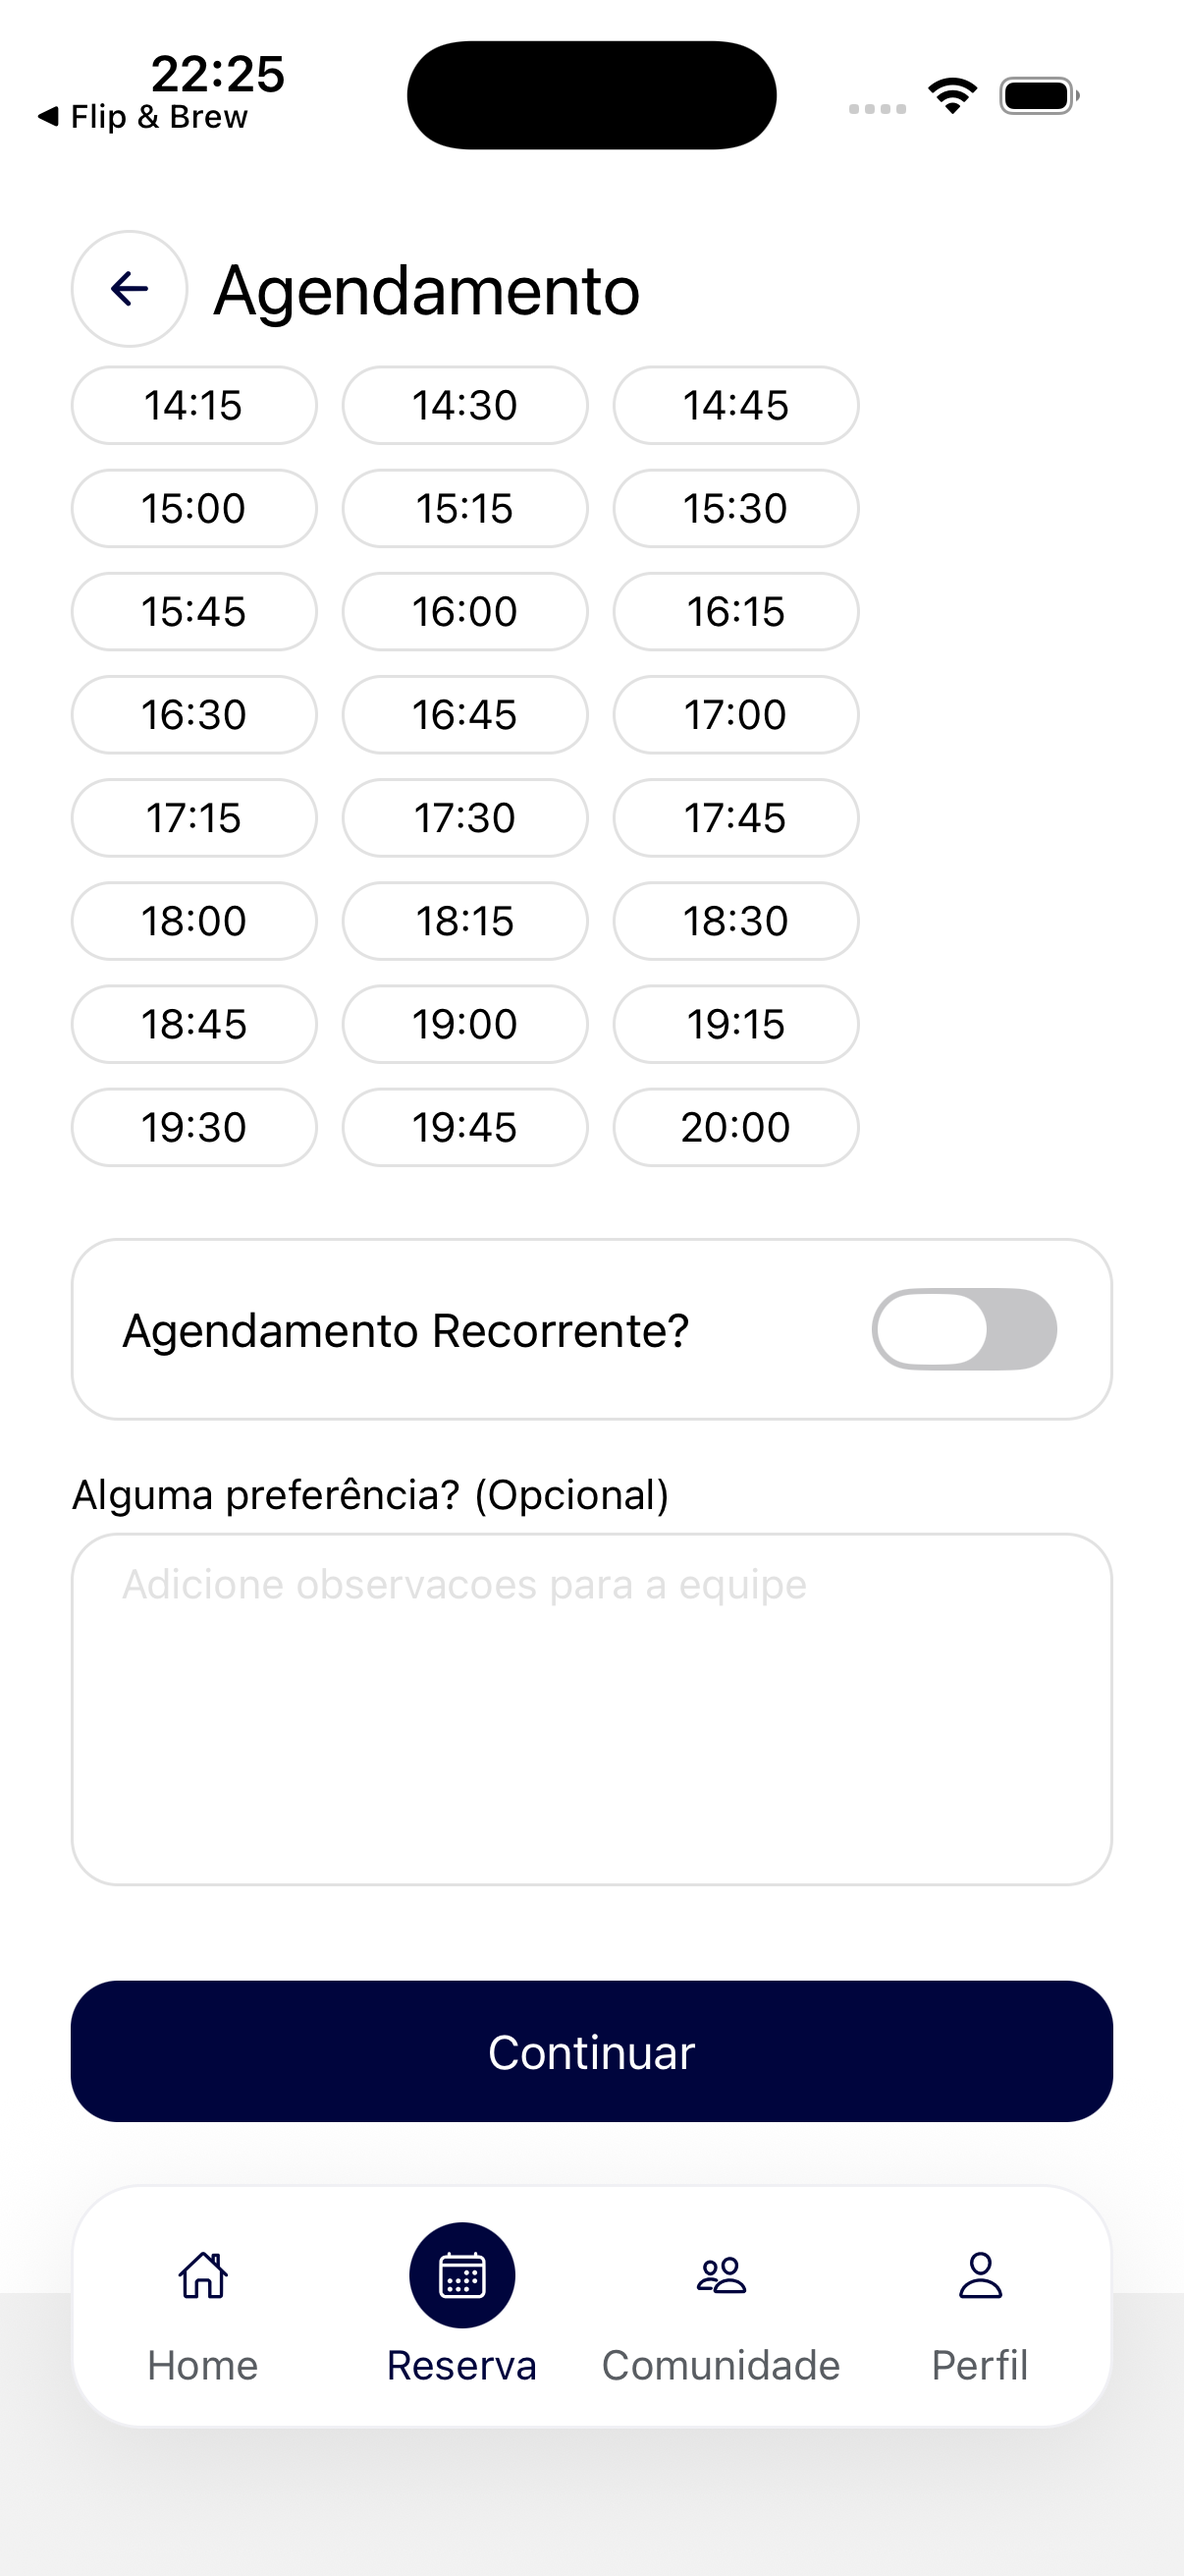
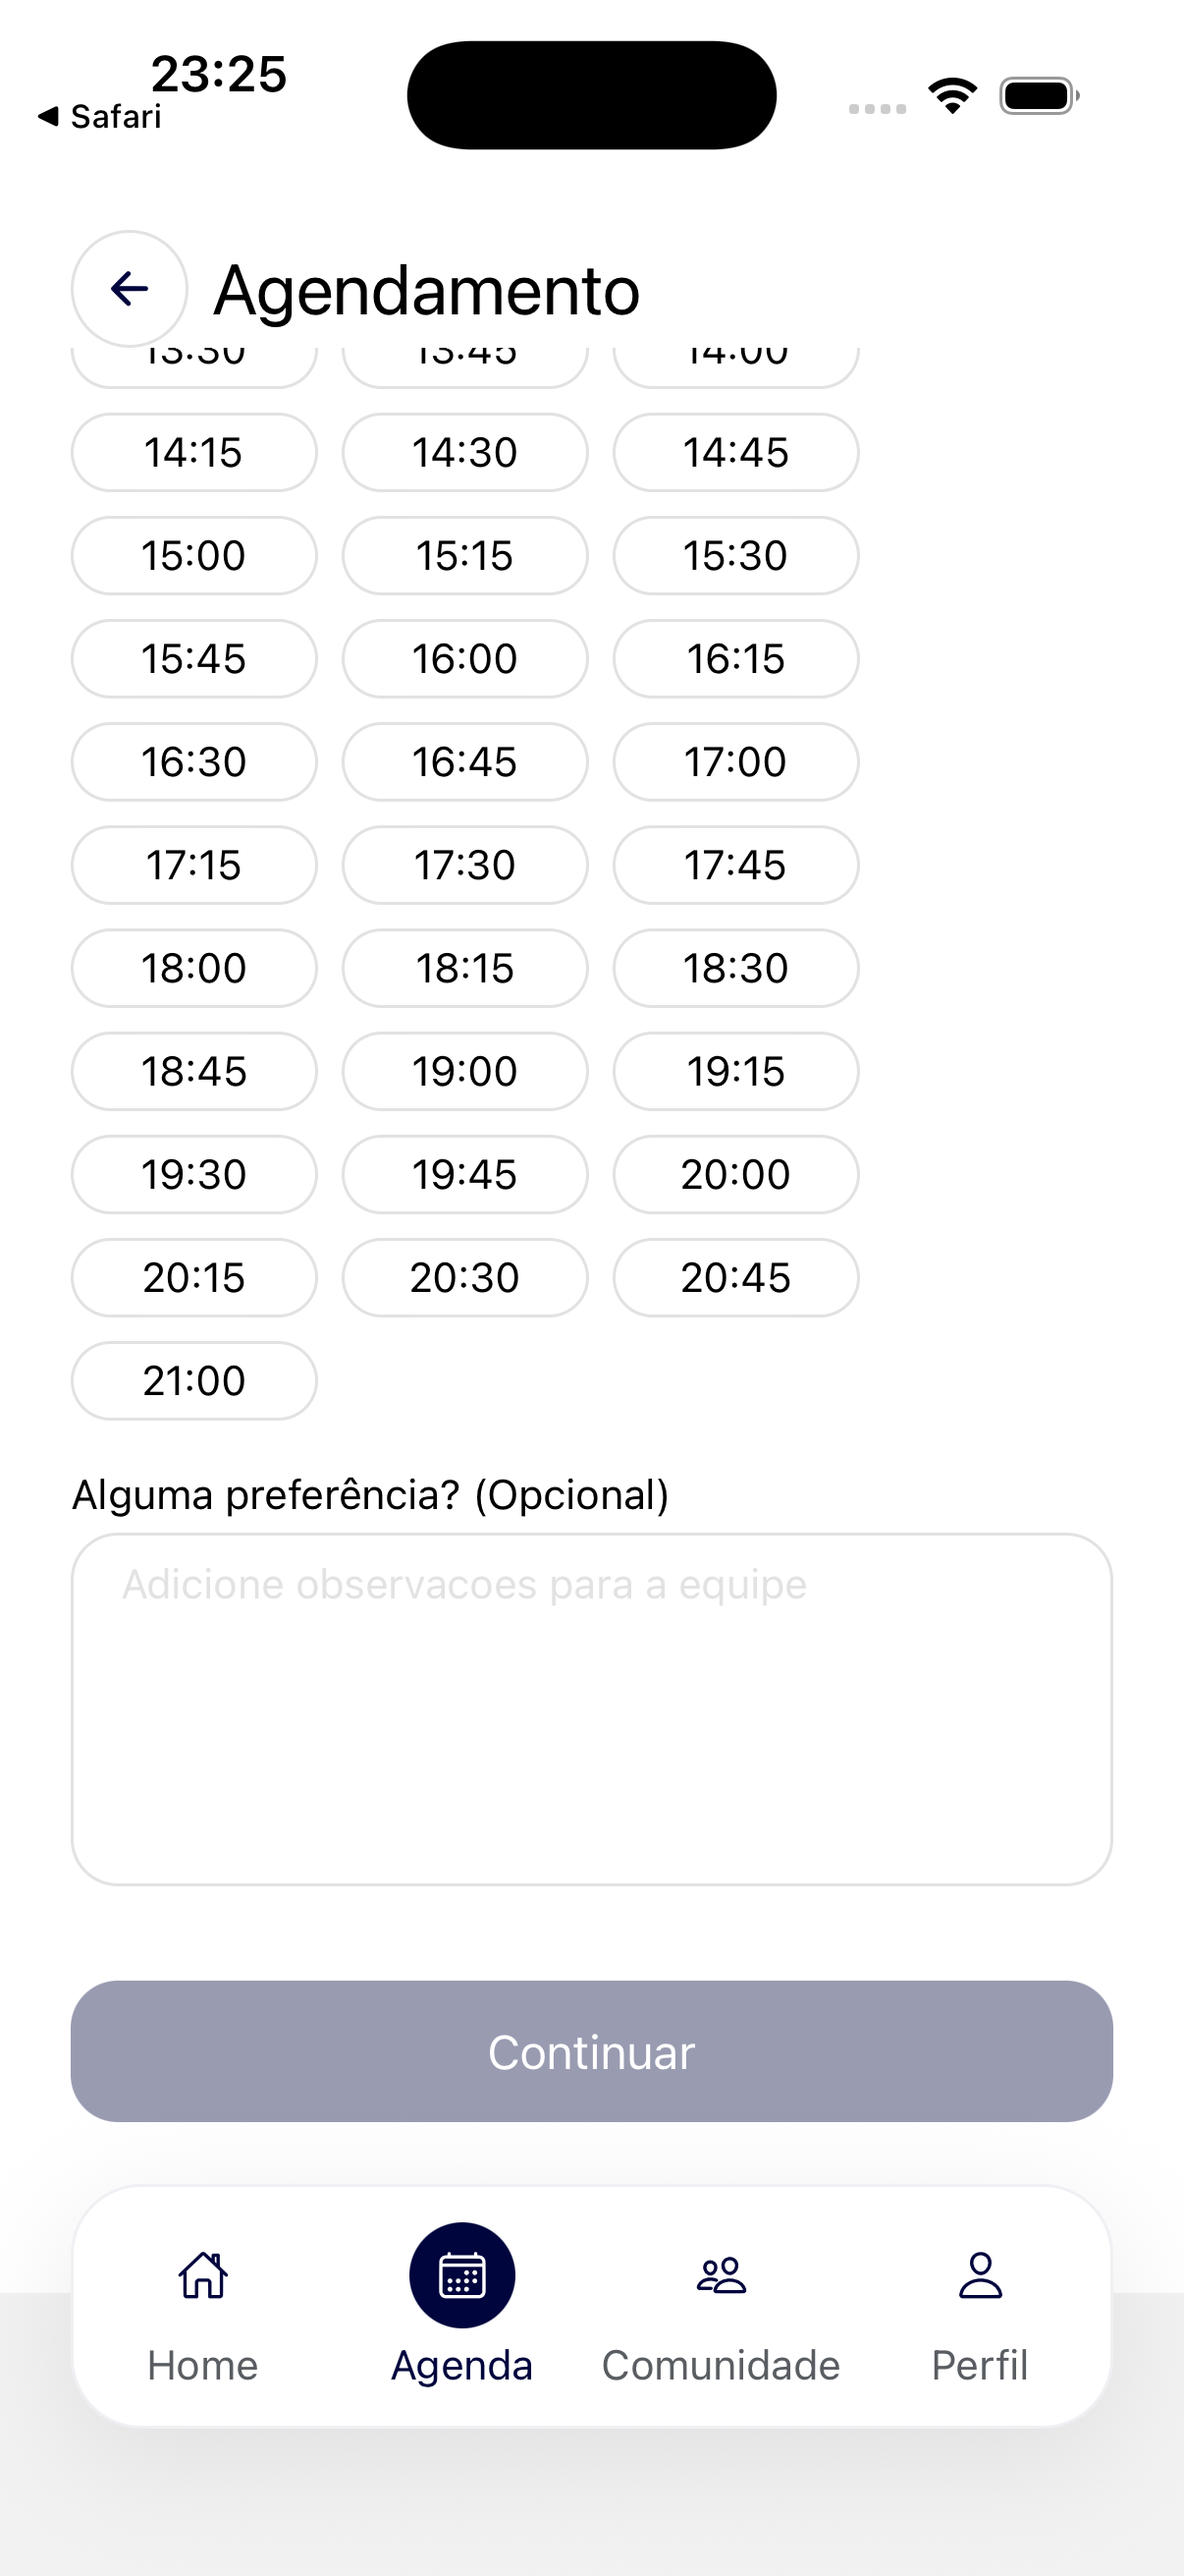
fix(app): nome de plano legível (QUINZE_STANDARD -> Quinze Standard) em perfil, pagamentos e agenda

diff --git a/app/(tabs)/profile.tsx b/app/(tabs)/profile.tsx
@@ -27,6 +27,7 @@ import {
 } from "../../GlobalStyles";
 import { logout as logoutService } from "../../services/auth";
 import { getCurrentUser } from "../../services/users";
+import { planLabel } from "../../utils/planLabel";
 import type { UserProfileResponse } from "../../types/api";
 
 type ProfileOption = {
@@ -229,7 +230,7 @@ export default function ProfileScreen() {
       parts.push(membershipLabel);
     }
     if (profile.plan?.name) {
-      parts.push(profile.plan.name);
+      parts.push(planLabel(profile.plan.name));
     }
     if (roleLabel) {
       parts.push(roleLabel);
@@ -249,7 +250,7 @@ export default function ProfileScreen() {
       }
       if (option.id === "plans") {
         const label = profile?.plan
-          ? profile.plan.name
+          ? planLabel(profile.plan.name)
           : "Conheça os planos disponíveis.";
         return { ...option, description: label };
       }
@@ -339,7 +340,7 @@ export default function ProfileScreen() {
                       size={14}
                       color={Color.mainGoten}
                     />
-                    <Text style={styles.badgeText}>{profile.plan.name}</Text>
+                    <Text style={styles.badgeText}>{planLabel(profile.plan.name)}</Text>
                   </View>
                 ) : null}
               </View>

diff --git a/app/admin-agenda.tsx b/app/admin-agenda.tsx
@@ -28,6 +28,7 @@ import { getStatusMeta, isActiveStatus } from "../constants/appointmentStatus";
 import api from "../services/api";
 import { cancelAppointment, listAppointments } from "../services/appointments";
 import { getCurrentUser, getUserById } from "../services/users";
+import { planLabel } from "../utils/planLabel";
 import type { AppointmentResponse } from "../types/api";
 
 type ClientInfo = {
@@ -137,7 +138,7 @@ const getInitials = (name?: string) => {
 
 const getRoleLabel = (info?: ClientInfo) => {
   const planName = info?.planName?.trim();
-  if (planName) return planName;
+  if (planName) return planLabel(planName);
   if (info?.membershipTier === "QUINZE_SELECT") return "Select";
   if (info?.membershipTier === "QUINZE_PREMIUM") return "Premium";
   if (info?.membershipTier === "QUINZE_STANDARD") return "Standard";

diff --git a/app/admin-payments.tsx b/app/admin-payments.tsx
@@ -27,6 +27,7 @@ import {
 } from "../GlobalStyles";
 import { listPaymentRenewals } from "../services/payments";
 import { getUserById, renewUserPlan } from "../services/users";
+import { planLabel } from "../utils/planLabel";
 import type { PaymentRenewalResponse } from "../types/api";
 
 const formatCurrency = (value?: number) => {
@@ -234,7 +235,7 @@ export default function AdminPaymentsScreen() {
                 {formatCurrency(renewal.plan?.price)}
               </Text>
             </View>
-            <Text style={styles.cardPlan}>{renewal.plan?.name ?? "Plano"}</Text>
+            <Text style={styles.cardPlan}>{planLabel(renewal.plan?.name)}</Text>
             <View style={styles.metaRow}>
               <Text style={styles.metaLabel}>Vencimento</Text>
               <Text style={styles.metaValue}>

diff --git a/tests/planLabel.test.ts b/tests/planLabel.test.ts
@@ -1,0 +1,15 @@
+import assert from "node:assert/strict";
+import { test } from "node:test";
+
+import { planLabel } from "../utils/planLabel.ts";
+
+test("traduz os códigos conhecidos e preserva nomes já legíveis", () => {
+  assert.equal(planLabel("QUINZE_STANDARD"), "Quinze Standard");
+  assert.equal(planLabel("quinze_select"), "Quinze Select");
+  assert.equal(planLabel("Plano Ouro"), "Plano Ouro");
+});
+
+test("vazio usa o fallback", () => {
+  assert.equal(planLabel(undefined), "Plano");
+  assert.equal(planLabel("  ", "—"), "—");
+});

diff --git a/utils/planLabel.ts b/utils/planLabel.ts
@@ -1,0 +1,12 @@
+/** Nome de plano legível: o backend guarda códigos como QUINZE_STANDARD no nome do plano. */
+const LABELS: Record<string, string> = {
+  QUINZE_STANDARD: "Quinze Standard",
+  QUINZE_PREMIUM: "Quinze Premium",
+  QUINZE_SELECT: "Quinze Select",
+};
+
+export function planLabel(name?: string | null, fallback = "Plano"): string {
+  const raw = name?.trim();
+  if (!raw) return fallback;
+  return LABELS[raw.toUpperCase()] ?? raw;
+}
